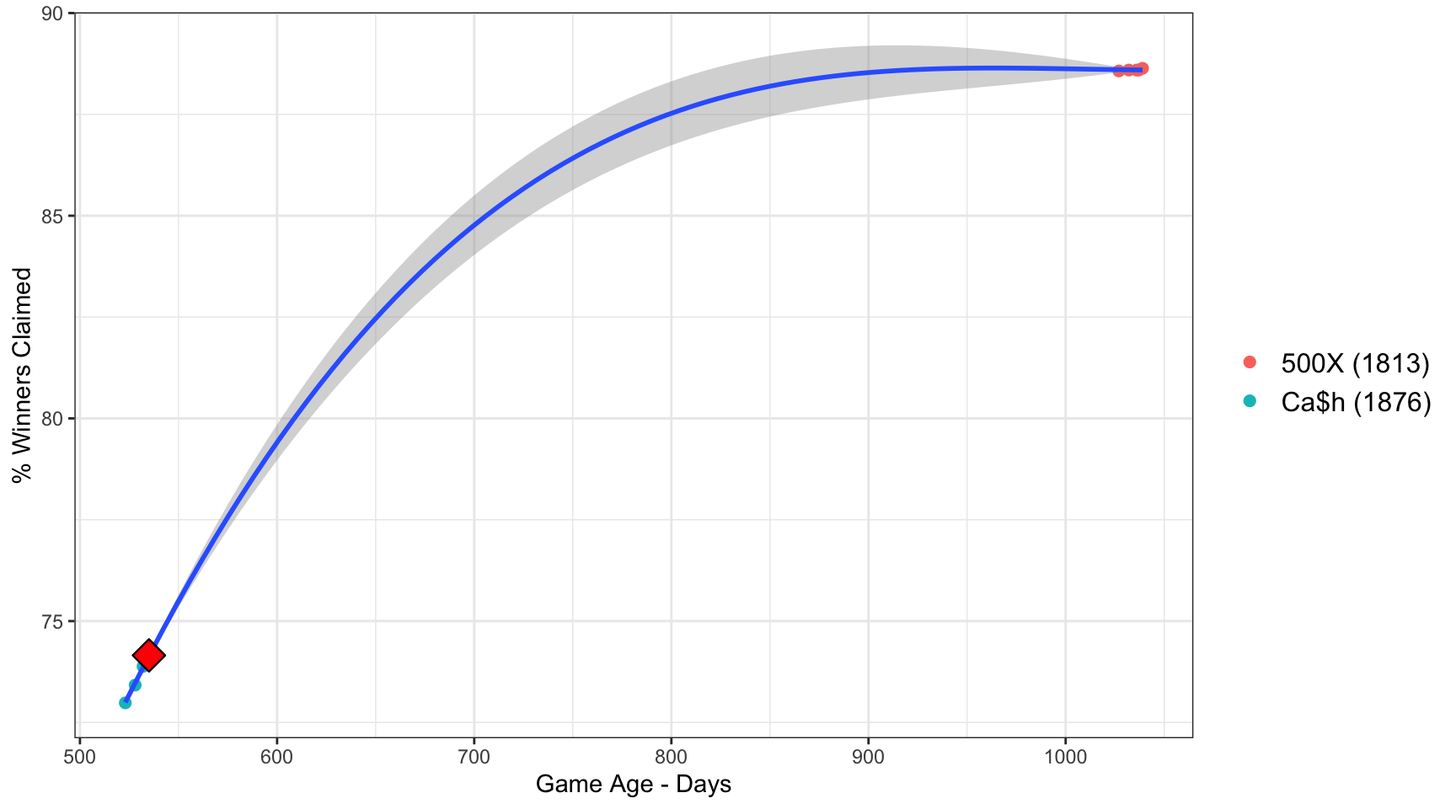
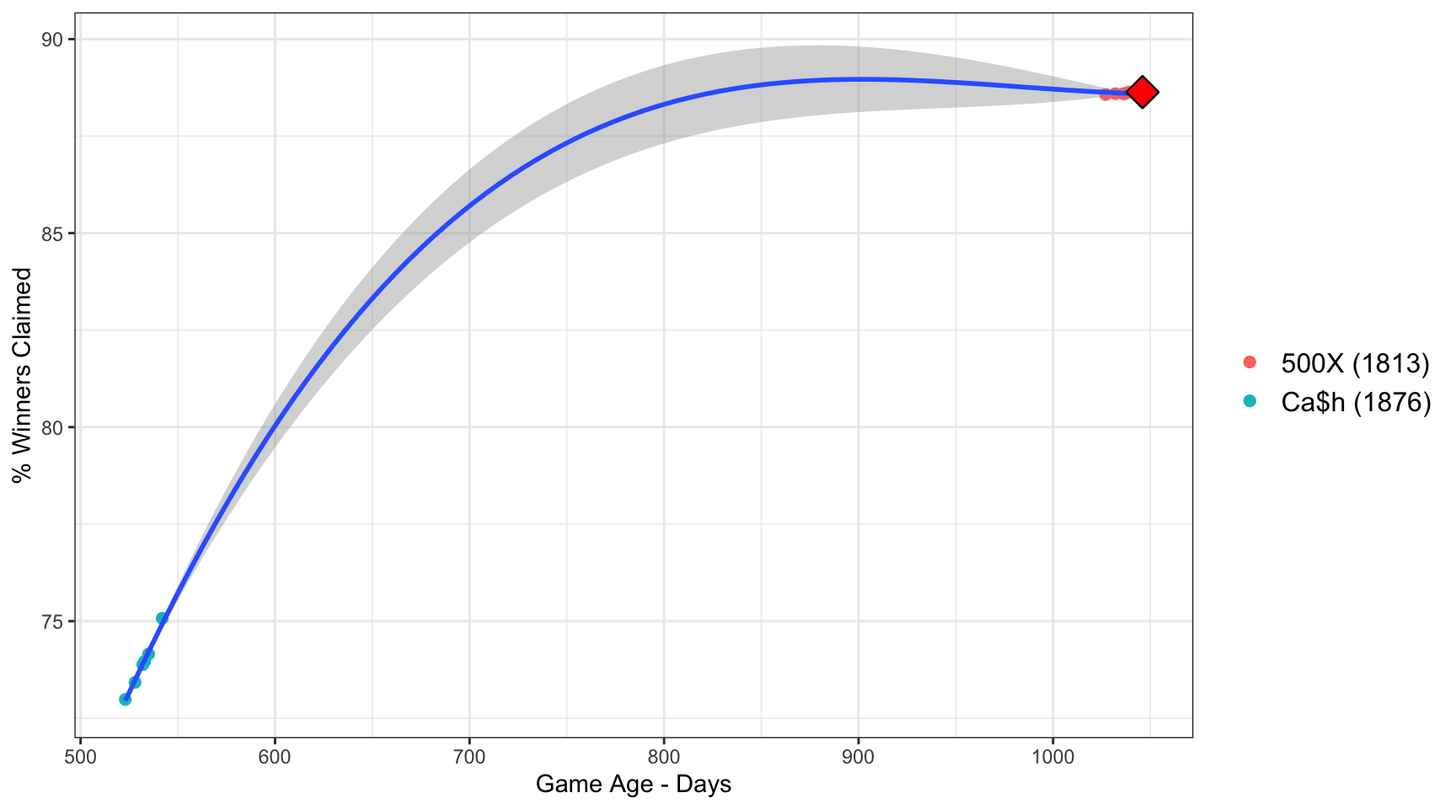
scrape data

diff --git a/docs/All_Games.html b/docs/All_Games.html
@@ -300,32 +300,32 @@ tickets &gt;$500 claimed and remaining</p>
 <div id="overall-odds" class="section level3"
 style="text-align: center">
 <h3 style="text-align: center">Overall Odds</h3>
-<div class="datatables html-widget html-fill-item-overflow-hidden html-fill-item" id="htmlwidget-b964766d08205e2cbe5b" style="width:100%;height:auto;"></div>
-<script type="application/json" data-for="htmlwidget-b964766d08205e2cbe5b">{"x":{"filter":"none","vertical":false,"data":[["1","2","3","4","5","6","7","8","9","10","11","12","13","14","15","16","17","18","19","20","21","22","23","24","25","26","27","28","29","30","31","32","33","34","35","36","37","38","39"],["$50","$50","$20","$20","$20","$20","$10","$10","$10","$10","$10","$10","$3","$5","$3","$3","$3","$5","$5","$5","$3","$3","$3","$2","$2","$5","$3","$3","$3","$5","$5","$3","$1","$1","$3","$2","$20","$5","$20"],["Ca$h (1876)","500X (1813)","Crazy Cash Crossword (1918)","Big Ol' Bens (1943)","$500,000 Payday (1848)","Money Multiplier (1932)","Mystery Box Multi Xword (1925)","$200,000 Platinum (1945)","Dig Dug (1884)","Golden Riches (1841)","Jumbo Bucks (1923)","Lucky Lines Extravaganza (1921)","Crossword Craving (1944)","Coffee House Crossword! (1940)","VIP Crossword (1924)","Lucky Duck Crossword (1899)","Pengwin Crossword (1931)","Cash In a Flash Multiplier (1939)","Lucky Match (1915)","Bingo Doubler (1933)","Treasure Hunt (1935)","Sunny Money (1907)","Lucky Hunt (1889)","Love to Win! (1938)","Winter Blast (1930)","Monopoly Doubler (1934)","Cash Card (1913)","10X Crossword (1911)","Diamond Slingo (1897)","$100,000 Makeover Money (1942)","Living Lucky with Luke Combs (1922)","Scratch Yer Booty Bingo (1909)","Quick 7s (1937)","Cool Cat (1912)","Twisted Bingo (1885)","Sascratch (1919)","Bankroll (1914)","Ruby Red 7s (1920)","$25 Million Big Blowout (1941)"],[2.89,2.89,2.93,3,3,3.01,3.13,3.15,3.18,3.18,3.24,3.3,3.5,3.52,3.52,3.52,3.53,3.6,3.6,3.63,3.64,3.66,3.66,3.69,3.69,3.72,3.72,3.72,3.73,3.76,3.76,3.76,3.78,3.79,3.83,3.87,3.96,4.31,9.48]],"container":"<table class=\"display\">\n  <thead>\n    <tr>\n      <th> <\/th>\n      <th>game_amount<\/th>\n      <th>Game<\/th>\n      <th>overall_odds<\/th>\n    <\/tr>\n  <\/thead>\n<\/table>","options":{"columnDefs":[{"className":"dt-right","targets":3},{"orderable":false,"targets":0}],"order":[],"autoWidth":false,"orderClasses":false}},"evals":[],"jsHooks":[]}</script>
+<div class="datatables html-widget html-fill-item-overflow-hidden html-fill-item" id="htmlwidget-e844e234a0fa5b250c16" style="width:100%;height:auto;"></div>
+<script type="application/json" data-for="htmlwidget-e844e234a0fa5b250c16">{"x":{"filter":"none","vertical":false,"data":[["1","2","3","4","5","6","7","8","9","10","11","12","13","14","15","16","17","18","19","20","21","22","23","24","25","26","27","28","29","30","31","32","33","34","35","36","37","38","39"],["$50","$50","$20","$20","$20","$20","$10","$10","$10","$10","$10","$10","$3","$5","$3","$3","$3","$5","$5","$5","$3","$3","$3","$2","$2","$5","$3","$3","$3","$5","$5","$3","$1","$1","$3","$2","$20","$5","$20"],["Ca$h (1876)","500X (1813)","Crazy Cash Crossword (1918)","Big Ol' Bens (1943)","$500,000 Payday (1848)","Money Multiplier (1932)","Mystery Box Multi Xword (1925)","$200,000 Platinum (1945)","Dig Dug (1884)","Golden Riches (1841)","Jumbo Bucks (1923)","Lucky Lines Extravaganza (1921)","Crossword Craving (1944)","Coffee House Crossword! (1940)","VIP Crossword (1924)","Lucky Duck Crossword (1899)","Pengwin Crossword (1931)","Cash In a Flash Multiplier (1939)","Lucky Match (1915)","Bingo Doubler (1933)","Treasure Hunt (1935)","Sunny Money (1907)","Lucky Hunt (1889)","Love to Win! (1938)","Winter Blast (1930)","Monopoly Doubler (1934)","Cash Card (1913)","10X Crossword (1911)","Diamond Slingo (1897)","$100,000 Makeover Money (1942)","Living Lucky with Luke Combs (1922)","Scratch Yer Booty Bingo (1909)","Quick 7s (1937)","Cool Cat (1912)","Twisted Bingo (1885)","Sascratch (1919)","Bankroll (1914)","Ruby Red 7s (1920)","$25 Million Big Blowout (1941)"],[2.89,2.89,2.93,3,3,3.01,3.13,3.15,3.18,3.18,3.24,3.3,3.5,3.52,3.52,3.52,3.53,3.6,3.6,3.63,3.64,3.66,3.66,3.69,3.69,3.72,3.72,3.72,3.73,3.76,3.76,3.76,3.78,3.79,3.83,3.87,3.96,4.31,9.48]],"container":"<table class=\"display\">\n  <thead>\n    <tr>\n      <th> <\/th>\n      <th>game_amount<\/th>\n      <th>Game<\/th>\n      <th>overall_odds<\/th>\n    <\/tr>\n  <\/thead>\n<\/table>","options":{"columnDefs":[{"className":"dt-right","targets":3},{"orderable":false,"targets":0}],"order":[],"autoWidth":false,"orderClasses":false}},"evals":[],"jsHooks":[]}</script>
 </div>
 <div id="odds-of-500-or-greater" class="section level3"
 style="text-align: center">
 <h3 style="text-align: center">Odds of $500 or Greater</h3>
-<div class="datatables html-widget html-fill-item-overflow-hidden html-fill-item" id="htmlwidget-02fba6210d0edbe6d771" style="width:100%;height:auto;"></div>
-<script type="application/json" data-for="htmlwidget-02fba6210d0edbe6d771">{"x":{"filter":"none","vertical":false,"data":[["1","2","3","4","5","6","7","8","9","10","11","12","13","14","15","16","17","18","19","20","21","22","23","24","25","26","27","28","29","30","31","32","33","34","35","36","37","38","39"],["$50","$50","$20","$20","$20","$10","$10","$20","$20","$5","$10","$5","$5","$10","$3","$20","$10","$3","$3","$3","$3","$5","$5","$5","$10","$5","$3","$3","$3","$5","$3","$3","$2","$3","$2","$3","$2","$1","$1"],["Ca$h (1876)","500X (1813)","$25 Million Big Blowout (1941)","Bankroll (1914)","Money Multiplier (1932)","Dig Dug (1884)","Mystery Box Multi Xword (1925)","$500,000 Payday (1848)","Big Ol' Bens (1943)","Bingo Doubler (1933)","Jumbo Bucks (1923)","Coffee House Crossword! (1940)","Monopoly Doubler (1934)","Lucky Lines Extravaganza (1921)","10X Crossword (1911)","Crazy Cash Crossword (1918)","Golden Riches (1841)","Cash Card (1913)","Lucky Hunt (1889)","Twisted Bingo (1885)","Scratch Yer Booty Bingo (1909)","Cash In a Flash Multiplier (1939)","Ruby Red 7s (1920)","$100,000 Makeover Money (1942)","$200,000 Platinum (1945)","Living Lucky with Luke Combs (1922)","Treasure Hunt (1935)","Sunny Money (1907)","Pengwin Crossword (1931)","Lucky Match (1915)","Lucky Duck Crossword (1899)","VIP Crossword (1924)","Love to Win! (1938)","Crossword Craving (1944)","Winter Blast (1930)","Diamond Slingo (1897)","Sascratch (1919)","Cool Cat (1912)","Quick 7s (1937)"],[256,265,372,1457,1757,2385,3327,3363,3392,3431,3800,5032,5065,5556,5729,6189,6507,7302,7327,8603,8941,8976,9006,9524,10022,10259,10747,11363,11622,11658,13004,15650,21928,23721,34074,53153,88046,651767,651867]],"container":"<table class=\"display\">\n  <thead>\n    <tr>\n      <th> <\/th>\n      <th>game_amount<\/th>\n      <th>Game<\/th>\n      <th>odds_500<\/th>\n    <\/tr>\n  <\/thead>\n<\/table>","options":{"columnDefs":[{"className":"dt-right","targets":3},{"orderable":false,"targets":0}],"order":[],"autoWidth":false,"orderClasses":false}},"evals":[],"jsHooks":[]}</script>
+<div class="datatables html-widget html-fill-item-overflow-hidden html-fill-item" id="htmlwidget-b5f17524b96dbeb86bf1" style="width:100%;height:auto;"></div>
+<script type="application/json" data-for="htmlwidget-b5f17524b96dbeb86bf1">{"x":{"filter":"none","vertical":false,"data":[["1","2","3","4","5","6","7","8","9","10","11","12","13","14","15","16","17","18","19","20","21","22","23","24","25","26","27","28","29","30","31","32","33","34","35","36","37","38","39"],["$50","$50","$20","$20","$20","$10","$10","$20","$20","$5","$10","$5","$5","$10","$3","$20","$10","$3","$3","$3","$3","$5","$5","$5","$10","$5","$3","$3","$3","$5","$3","$3","$2","$3","$2","$3","$2","$1","$1"],["Ca$h (1876)","500X (1813)","$25 Million Big Blowout (1941)","Bankroll (1914)","Money Multiplier (1932)","Dig Dug (1884)","Mystery Box Multi Xword (1925)","$500,000 Payday (1848)","Big Ol' Bens (1943)","Bingo Doubler (1933)","Jumbo Bucks (1923)","Coffee House Crossword! (1940)","Monopoly Doubler (1934)","Lucky Lines Extravaganza (1921)","10X Crossword (1911)","Crazy Cash Crossword (1918)","Golden Riches (1841)","Cash Card (1913)","Lucky Hunt (1889)","Twisted Bingo (1885)","Scratch Yer Booty Bingo (1909)","Cash In a Flash Multiplier (1939)","Ruby Red 7s (1920)","$100,000 Makeover Money (1942)","$200,000 Platinum (1945)","Living Lucky with Luke Combs (1922)","Treasure Hunt (1935)","Sunny Money (1907)","Pengwin Crossword (1931)","Lucky Match (1915)","Lucky Duck Crossword (1899)","VIP Crossword (1924)","Love to Win! (1938)","Crossword Craving (1944)","Winter Blast (1930)","Diamond Slingo (1897)","Sascratch (1919)","Cool Cat (1912)","Quick 7s (1937)"],[256,265,372,1457,1757,2385,3327,3363,3392,3431,3800,5032,5065,5556,5729,6189,6507,7302,7327,8603,8941,8976,9006,9524,10022,10259,10747,11363,11622,11658,13004,15650,21928,23721,34074,53153,88046,651767,651867]],"container":"<table class=\"display\">\n  <thead>\n    <tr>\n      <th> <\/th>\n      <th>game_amount<\/th>\n      <th>Game<\/th>\n      <th>odds_500<\/th>\n    <\/tr>\n  <\/thead>\n<\/table>","options":{"columnDefs":[{"className":"dt-right","targets":3},{"orderable":false,"targets":0}],"order":[],"autoWidth":false,"orderClasses":false}},"evals":[],"jsHooks":[]}</script>
 </div>
 <div id="game-age" class="section level3" style="text-align: center">
 <h3 style="text-align: center">Game Age</h3>
-<div class="datatables html-widget html-fill-item-overflow-hidden html-fill-item" id="htmlwidget-b50f470dde99582c449a" style="width:100%;height:auto;"></div>
-<script type="application/json" data-for="htmlwidget-b50f470dde99582c449a">{"x":{"filter":"none","vertical":false,"data":[["1","2","3","4","5","6","7","8","9","10","11","12","13","14","15","16","17","18","19","20","21","22","23","24","25","26","27","28","29","30","31","32","33","34","35"],["$20","$5","$5","$2","$1","$3","$5","$5","$20","$3","$2","$10","$3","$10","$5","$10","$5","$2","$20","$5","$20","$3","$1","$3","$3","$3","$3","$3","$3","$3","$10","$50","$20","$10","$50"],["$25 Million Big Blowout (1941)","Coffee House Crossword! (1940)","Cash In a Flash Multiplier (1939)","Love to Win! (1938)","Quick 7s (1937)","Treasure Hunt (1935)","Monopoly Doubler (1934)","Bingo Doubler (1933)","Money Multiplier (1932)","Pengwin Crossword (1931)","Winter Blast (1930)","Mystery Box Multi Xword (1925)","VIP Crossword (1924)","Jumbo Bucks (1923)","Living Lucky with Luke Combs (1922)","Lucky Lines Extravaganza (1921)","Ruby Red 7s (1920)","Sascratch (1919)","Crazy Cash Crossword (1918)","Lucky Match (1915)","Bankroll (1914)","Cash Card (1913)","Cool Cat (1912)","10X Crossword (1911)","Scratch Yer Booty Bingo (1909)","Sunny Money (1907)","Lucky Duck Crossword (1899)","Diamond Slingo (1897)","Lucky Hunt (1889)","Twisted Bingo (1885)","Dig Dug (1884)","Ca$h (1876)","$500,000 Payday (1848)","Golden Riches (1841)","500X (1813)"],[17,17,17,17,80,80,80,108,108,108,108,171,171,171,171,199,199,199,199,234,234,262,262,262,290,290,353,388,444,472,472,535,752,808,1039]],"container":"<table class=\"display\">\n  <thead>\n    <tr>\n      <th> <\/th>\n      <th>game_amount<\/th>\n      <th>Game<\/th>\n      <th>game_age<\/th>\n    <\/tr>\n  <\/thead>\n<\/table>","options":{"columnDefs":[{"className":"dt-right","targets":3},{"orderable":false,"targets":0}],"order":[],"autoWidth":false,"orderClasses":false}},"evals":[],"jsHooks":[]}</script>
+<div class="datatables html-widget html-fill-item-overflow-hidden html-fill-item" id="htmlwidget-e5482d8be3ebb93122b3" style="width:100%;height:auto;"></div>
+<script type="application/json" data-for="htmlwidget-e5482d8be3ebb93122b3">{"x":{"filter":"none","vertical":false,"data":[["1","2","3","4","5","6","7","8","9","10","11","12","13","14","15","16","17","18","19","20","21","22","23","24","25","26","27","28","29","30","31","32","33","34","35"],["$20","$5","$5","$2","$1","$3","$5","$5","$20","$3","$2","$10","$3","$10","$5","$10","$5","$2","$20","$5","$20","$3","$1","$3","$3","$3","$3","$3","$3","$3","$10","$50","$20","$10","$50"],["$25 Million Big Blowout (1941)","Coffee House Crossword! (1940)","Cash In a Flash Multiplier (1939)","Love to Win! (1938)","Quick 7s (1937)","Treasure Hunt (1935)","Monopoly Doubler (1934)","Bingo Doubler (1933)","Money Multiplier (1932)","Pengwin Crossword (1931)","Winter Blast (1930)","Mystery Box Multi Xword (1925)","VIP Crossword (1924)","Jumbo Bucks (1923)","Living Lucky with Luke Combs (1922)","Lucky Lines Extravaganza (1921)","Ruby Red 7s (1920)","Sascratch (1919)","Crazy Cash Crossword (1918)","Lucky Match (1915)","Bankroll (1914)","Cash Card (1913)","Cool Cat (1912)","10X Crossword (1911)","Scratch Yer Booty Bingo (1909)","Sunny Money (1907)","Lucky Duck Crossword (1899)","Diamond Slingo (1897)","Lucky Hunt (1889)","Twisted Bingo (1885)","Dig Dug (1884)","Ca$h (1876)","$500,000 Payday (1848)","Golden Riches (1841)","500X (1813)"],[24,24,24,24,87,87,87,115,115,115,115,178,178,178,178,206,206,206,206,241,241,269,269,269,297,297,360,395,451,479,479,542,759,815,1046]],"container":"<table class=\"display\">\n  <thead>\n    <tr>\n      <th> <\/th>\n      <th>game_amount<\/th>\n      <th>Game<\/th>\n      <th>game_age<\/th>\n    <\/tr>\n  <\/thead>\n<\/table>","options":{"columnDefs":[{"className":"dt-right","targets":3},{"orderable":false,"targets":0}],"order":[],"autoWidth":false,"orderClasses":false}},"evals":[],"jsHooks":[]}</script>
 </div>
 <div id="number-of-tickets-in-game" class="section level3"
 style="text-align: center">
 <h3 style="text-align: center">Number of Tickets in Game</h3>
-<div class="datatables html-widget html-fill-item-overflow-hidden html-fill-item" id="htmlwidget-0995f3ef0e0af7648f9e" style="width:100%;height:auto;"></div>
-<script type="application/json" data-for="htmlwidget-0995f3ef0e0af7648f9e">{"x":{"filter":"none","vertical":false,"data":[["1","2","3","4","5","6","7","8","9","10","11","12","13","14","15","16","17","18","19","20","21","22","23","24","25","26","27","28","29","30","31","32","33","34","35","36","37","38","39"],["$50","$50","$20","$20","$20","$10","$20","$10","$20","$10","$10","$3","$10","$3","$2","$3","$20","$3","$5","$3","$3","$2","$2","$5","$5","$5","$3","$5","$3","$3","$3","$3","$3","$5","$10","$1","$1","$5","$5"],["500X (1813)","Ca$h (1876)","Big Ol' Bens (1943)","Bankroll (1914)","Crazy Cash Crossword (1918)","$200,000 Platinum (1945)","Money Multiplier (1932)","Jumbo Bucks (1923)","$25 Million Big Blowout (1941)","Mystery Box Multi Xword (1925)","Lucky Lines Extravaganza (1921)","Sunny Money (1907)","Dig Dug (1884)","Lucky Hunt (1889)","Winter Blast (1930)","Scratch Yer Booty Bingo (1909)","$500,000 Payday (1848)","Twisted Bingo (1885)","Bingo Doubler (1933)","Treasure Hunt (1935)","Cash Card (1913)","Sascratch (1919)","Love to Win! (1938)","Cash In a Flash Multiplier (1939)","Lucky Match (1915)","Coffee House Crossword! (1940)","Pengwin Crossword (1931)","$100,000 Makeover Money (1942)","Crossword Craving (1944)","10X Crossword (1911)","VIP Crossword (1924)","Lucky Duck Crossword (1899)","Diamond Slingo (1897)","Ruby Red 7s (1920)","Golden Riches (1841)","Cool Cat (1912)","Quick 7s (1937)","Living Lucky with Luke Combs (1922)","Monopoly Doubler (1934)"],[1216260,1221870,1465150,1465575,1466725,1954250,1955200,1956800,1958400,2073000,2200250,2318100,2439350,2901500,2930400,2932600,2932650,2933500,2933600,2934000,2935300,2993550,3048000,3051700,3054300,3054600,3056500,3057300,3060000,3179800,3302100,3303100,3614400,3665600,3904250,3910600,3911200,4154900,6108700]],"container":"<table class=\"display\">\n  <thead>\n    <tr>\n      <th> <\/th>\n      <th>game_amount<\/th>\n      <th>Game<\/th>\n      <th>no_tickets<\/th>\n    <\/tr>\n  <\/thead>\n<\/table>","options":{"columnDefs":[{"className":"dt-right","targets":3},{"orderable":false,"targets":0}],"order":[],"autoWidth":false,"orderClasses":false}},"evals":[],"jsHooks":[]}</script>
+<div class="datatables html-widget html-fill-item-overflow-hidden html-fill-item" id="htmlwidget-ae97f694fca9dd4a515c" style="width:100%;height:auto;"></div>
+<script type="application/json" data-for="htmlwidget-ae97f694fca9dd4a515c">{"x":{"filter":"none","vertical":false,"data":[["1","2","3","4","5","6","7","8","9","10","11","12","13","14","15","16","17","18","19","20","21","22","23","24","25","26","27","28","29","30","31","32","33","34","35","36","37","38","39"],["$50","$50","$20","$20","$20","$10","$20","$10","$20","$10","$10","$3","$10","$3","$2","$3","$20","$3","$5","$3","$3","$2","$2","$5","$5","$5","$3","$5","$3","$3","$3","$3","$3","$5","$10","$1","$1","$5","$5"],["500X (1813)","Ca$h (1876)","Big Ol' Bens (1943)","Bankroll (1914)","Crazy Cash Crossword (1918)","$200,000 Platinum (1945)","Money Multiplier (1932)","Jumbo Bucks (1923)","$25 Million Big Blowout (1941)","Mystery Box Multi Xword (1925)","Lucky Lines Extravaganza (1921)","Sunny Money (1907)","Dig Dug (1884)","Lucky Hunt (1889)","Winter Blast (1930)","Scratch Yer Booty Bingo (1909)","$500,000 Payday (1848)","Twisted Bingo (1885)","Bingo Doubler (1933)","Treasure Hunt (1935)","Cash Card (1913)","Sascratch (1919)","Love to Win! (1938)","Cash In a Flash Multiplier (1939)","Lucky Match (1915)","Coffee House Crossword! (1940)","Pengwin Crossword (1931)","$100,000 Makeover Money (1942)","Crossword Craving (1944)","10X Crossword (1911)","VIP Crossword (1924)","Lucky Duck Crossword (1899)","Diamond Slingo (1897)","Ruby Red 7s (1920)","Golden Riches (1841)","Cool Cat (1912)","Quick 7s (1937)","Living Lucky with Luke Combs (1922)","Monopoly Doubler (1934)"],[1216260,1221870,1465150,1465575,1466725,1954250,1955200,1956800,1958400,2073000,2200250,2318100,2439350,2901500,2930400,2932600,2932650,2933500,2933600,2934000,2935300,2993550,3048000,3051700,3054300,3054600,3056500,3057300,3060000,3179800,3302100,3303100,3614400,3665600,3904250,3910600,3911200,4154900,6108700]],"container":"<table class=\"display\">\n  <thead>\n    <tr>\n      <th> <\/th>\n      <th>game_amount<\/th>\n      <th>Game<\/th>\n      <th>no_tickets<\/th>\n    <\/tr>\n  <\/thead>\n<\/table>","options":{"columnDefs":[{"className":"dt-right","targets":3},{"orderable":false,"targets":0}],"order":[],"autoWidth":false,"orderClasses":false}},"evals":[],"jsHooks":[]}</script>
 </div>
 <div id="of-winning-tickets-500-claimed" class="section level3"
 style="text-align: center">
 <h3 style="text-align: center">% of Winning Tickets &gt;$500
 Claimed</h3>
-<div class="datatables html-widget html-fill-item-overflow-hidden html-fill-item" id="htmlwidget-d02b378fb54368caee36" style="width:100%;height:auto;"></div>
-<script type="application/json" data-for="htmlwidget-d02b378fb54368caee36">{"x":{"filter":"none","vertical":false,"data":[["1","2","3","4","5","6","7","8","9","10","11","12","13","14","15","16","17","18","19","20","21","22","23","24","25","26","27","28","29","30","31","32","33","34","35","36","37","38","39","40","41","42","43","44","45","46","47","48","49","50","51","52","53","54","55","56","57","58","59","60","61","62","63","64","65","66","67","68","69","70","71","72","73","74","75","76","77","78","79","80","81","82","83","84","85","86","87","88","89","90","91","92","93","94","95","96","97","98","99","100","101","102","103","104","105","106","107","108","109","110","111","112","113","114","115","116","117","118","119","120","121","122","123","124","125","126","127","128","129","130","131","132","133","134","135","136","137","138","139","140","141","142","143","144","145","146","147","148","149","150","151","152","153","154","155","156","157","158","159","160","161","162","163","164"],["$20","$5","$10","$20","$5","$3","$5","$10","$5","$5","$20","$10","$20","$20","$5","$20","$3","$20","$5","$5","$5","$5","$5","$5","$10","$20","$5","$5","$5","$20","$5","$2","$5","$2","$2","$20","$20","$5","$1","$3","$5","$20","$2","$5","$20","$20","$3","$3","$5","$3","$5","$5","$20","$3","$2","$3","$3","$3","$10","$5","$5","$3","$20","$5","$20","$5","$5","$5","$20","$3","$2","$20","$5","$3","$3","$3","$3","$10","$20","$10","$10","$3","$3","$3","$2","$3","$3","$5","$3","$10","$10","$5","$3","$3","$3","$3","$10","$10","$5","$3","$20","$5","$3","$50","$3","$10","$20","$20","$3","$10","$3","$10","$3","$5","$2","$50","$10","$50","$20","$5","$50","$20","$20","$50","$50","$10","$5","$2","$10","$10","$20","$3","$50","$50","$10","$3","$50","$5","$10","$3","$20","$3","$3","$20","$10","$20","$10","$1","$3","$20","$20","$50","$50","$3","$20","$50","$50","$50","$50","$20","$50","$50","$50","$3"],["Big Ol' Bens (1943)","$100,000 Makeover Money (1942)","$200,000 Platinum (1945)","Big Ol' Bens (1943)","$100,000 Makeover Money (1942)","Crossword Craving (1944)","$100,000 Makeover Money (1942)","$200,000 Platinum (1945)","$100,000 Makeover Money (1942)","$100,000 Makeover Money (1942)","Big Ol' Bens (1943)","$200,000 Platinum (1945)","Big Ol' Bens (1943)","Big Ol' Bens (1943)","Coffee House Crossword! (1940)","$25 Million Big Blowout (1941)","Crossword Craving (1944)","Big Ol' Bens (1943)","Coffee House Crossword! (1940)","Bingo Doubler (1933)","Monopoly Doubler (1934)","Coffee House Crossword! (1940)","Coffee House Crossword! (1940)","Monopoly Doubler (1934)","$200,000 Platinum (1945)","Big Ol' Bens (1943)","Cash In a Flash Multiplier (1939)","Monopoly Doubler (1934)","Monopoly Doubler (1934)","Money Multiplier (1932)","Monopoly Doubler (1934)","Love to Win! (1938)","Cash In a Flash Multiplier (1939)","Love to Win! (1938)","Love to Win! (1938)","Money Multiplier (1932)","Money Multiplier (1932)","Cash In a Flash Multiplier (1939)","Quick 7s (1937)","Treasure Hunt (1935)","Bingo Doubler (1933)","Money Multiplier (1932)","Winter Blast (1930)","Living Lucky with Luke Combs (1922)","Crazy Cash Crossword (1918)","Money Multiplier (1932)","Treasure Hunt (1935)","Cash Card (1913)","Living Lucky with Luke Combs (1922)","Cash Card (1913)","Coffee House Crossword! (1940)","Bingo Doubler (1933)","Money Multiplier (1932)","Pengwin Crossword (1931)","Sascratch (1919)","Cash Card (1913)","Sunny Money (1907)","Lucky Hunt (1889)","Dig Dug (1884)","Living Lucky with Luke Combs (1922)","Living Lucky with Luke Combs (1922)","Pengwin Crossword (1931)","Crazy Cash Crossword (1918)","Living Lucky with Luke Combs (1922)","Crazy Cash Crossword (1918)","Cash In a Flash Multiplier (1939)","Bingo Doubler (1933)","Bingo Doubler (1933)","Money Multiplier (1932)","Pengwin Crossword (1931)","Sascratch (1919)","Crazy Cash Crossword (1918)","Lucky Match (1915)","10X Crossword (1911)","Lucky Duck Crossword (1899)","Lucky Duck Crossword (1899)","Lucky Hunt (1889)","Dig Dug (1884)","$500,000 Payday (1848)","Dig Dug (1884)","Dig Dug (1884)","Lucky Hunt (1889)","Pengwin Crossword (1931)","Scratch Yer Booty Bingo (1909)","Winter Blast (1930)","Pengwin Crossword (1931)","Sunny Money (1907)","Ruby Red 7s (1920)","Scratch Yer Booty Bingo (1909)","Mystery Box Multi Xword (1925)","Jumbo Bucks (1923)","Ruby Red 7s (1920)","Scratch Yer Booty Bingo (1909)","Sunny Money (1907)","Lucky Duck Crossword (1899)","Twisted Bingo (1885)","Jumbo Bucks (1923)","Mystery Box Multi Xword (1925)","Lucky Match (1915)","Twisted Bingo (1885)","$500,000 Payday (1848)","Ruby Red 7s (1920)","Lucky Duck Crossword (1899)","Ca$h (1876)","Pengwin Crossword (1931)","Mystery Box Multi Xword (1925)","Crazy Cash Crossword (1918)","Crazy Cash Crossword (1918)","10X Crossword (1911)","Lucky Lines Extravaganza (1921)","VIP Crossword (1924)","Mystery Box Multi Xword (1925)","Twisted Bingo (1885)","Ruby Red 7s (1920)","Sascratch (1919)","Ca$h (1876)","Golden Riches (1841)","Ca$h (1876)","$500,000 Payday (1848)","Ruby Red 7s (1920)","Ca$h (1876)","$500,000 Payday (1848)","$500,000 Payday (1848)","Ca$h (1876)","Ca$h (1876)","Jumbo Bucks (1923)","Lucky Match (1915)","Winter Blast (1930)","Lucky Lines Extravaganza (1921)","Lucky Lines Extravaganza (1921)","Bankroll (1914)","Lucky Duck Crossword (1899)","Ca$h (1876)","Ca$h (1876)","Lucky Lines Extravaganza (1921)","10X Crossword (1911)","Ca$h (1876)","Lucky Match (1915)","Golden Riches (1841)","VIP Crossword (1924)","Bankroll (1914)","Sunny Money (1907)","Lucky Hunt (1889)","$500,000 Payday (1848)","Golden Riches (1841)","Bankroll (1914)","Golden Riches (1841)","Cool Cat (1912)","Diamond Slingo (1897)","Bankroll (1914)","Bankroll (1914)","500X (1813)","500X (1813)","Diamond Slingo (1897)","$500,000 Payday (1848)","500X (1813)","500X (1813)","500X (1813)","500X (1813)","Bankroll (1914)","500X (1813)","500X (1813)","500X (1813)","Diamond Slingo (1897)"],["$500,000","$100,000","$10,000","$1,000","$1,000","$1,000","$10,000","$500","$5,000","$500","$500","$1,000","$5,000","$2,500","$5,000","$500","$30,000","$25,000","$100,000","$10,000","$2,500","$1,000","$500","$1,000","$200,000","$50,000","$100,000","$10,000","$100,000","$5,000","$500","$1,000","$1,000","$500","$10,000","$1,000","$2,500","$500","$7,000","$30,000","$1,000","$500,000","$10,000","$100,000","$300,000","$500","$1,000","$1,000","$1,000","$500","$10,000","$500","$50,000","$25,000","$15,000","$25,000","$1,000","$1,500","$200,000","$500","$10,000","$1,000","$5,000","$5,000","$500","$10,000","$5,000","$100,000","$25,000","$5,000","$1,000","$1,000","$100,000","$20,000","$5,000","$25,000","$1,000","$10,000","$500,000","$500","$1,000","$500","$500","$500","$500","$1,500","$500","$17,777","$1,000","$1,000","$200,000","$77,777","$25,000","$1,500","$1,000","$25,000","$1,000","$10,000","$10,000","$500","$2,500","$500","$500","$25,000","$10,000","$200,000","$10,000","$20,000","$1,000","$500","$1,000","$500","$1,000","$777","$500","$100,000","$200,000","$2,500","$500","$1,777","$10,000","$1,000","$5,000","$1,000","$2,000","$500","$1,000","$1,000","$3,000","$200,000","$50,000","$10,000","$20,000","$500","$1,000","$500","$5,000","$500","$10,000","$30,000","$25,000","$30,000","$30,000","$25,000","$500","$1,000","$1,000","$5,000","$1,000","$500","$2,500","$2,000","$25,000","$3,000","$50,000","$1,000","$2,500","$500","$10,000","$5,000","$20,000","$100,000","$5,000","$30,000"],[0,0,1,4,4,9,1,8,1,24,35,9,3,5,3,964,1,1,1,1,8,12,125,61,1,1,1,4,2,9,240,10,5,28,3,179,16,100,2,2,4,1,3,2,1,144,91,7,17,136,4,310,3,2,2,2,4,4,2,132,5,3,4,9,96,4,2,2,3,3,3,6,2,2,4,3,4,11,3,462,41,192,123,134,36,4,104,7,43,78,3,3,3,6,6,3,8,5,5,176,39,215,148,33,2,2,4,4,4,229,140,328,41,25,16,70,7,65,444,17,105,87,29,838,35,364,11,9,12,3,15,3,15,2331,29,418,54,183,35,4,8,4,4,8,321,74,124,5,25,677,38,43,43,20,7,1012,88,2563,134,27,18,90,73,14],[3,4,26,56,54,115,12,81,9,212,275,66,17,25,14,4303,4,4,4,4,30,43,394,189,3,3,3,12,6,26,654,25,12,66,7,401,34,211,4,4,8,2,6,4,2,287,176,13,31,241,7,520,5,3,3,3,6,6,3,187,7,4,5,11,105,4,2,2,3,3,3,6,2,2,4,3,4,11,3,454,39,181,112,117,29,3,75,5,29,52,2,2,2,4,4,2,5,3,3,100,21,115,78,17,1,1,2,2,2,109,66,154,19,11,7,30,3,27,184,7,40,33,11,312,13,133,4,3,4,1,5,1,5,776,9,127,16,52,9,1,2,1,1,2,75,16,26,1,5,134,7,7,7,3,1,138,12,322,16,3,2,10,7,1],["0%","0%","3.7%","6.7%","6.9%","7.3%","7.7%","9%","10%","10.2%","11.3%","12%","15%","16.7%","17.6%","18.3%","20%","20%","20%","20%","21.1%","21.8%","24.1%","24.4%","25%","25%","25%","25%","25%","25.7%","26.8%","28.6%","29.4%","29.8%","30%","30.9%","32%","32.2%","33.3%","33.3%","33.3%","33.3%","33.3%","33.3%","33.3%","33.4%","34.1%","35%","35.4%","36.1%","36.4%","37.3%","37.5%","40%","40%","40%","40%","40%","40%","41.4%","41.7%","42.9%","44.4%","45%","47.8%","50%","50%","50%","50%","50%","50%","50%","50%","50%","50%","50%","50%","50%","50%","50.4%","51.2%","51.5%","52.3%","53.4%","55.4%","57.1%","58.1%","58.3%","59.7%","60%","60%","60%","60%","60%","60%","60%","61.5%","62.5%","62.5%","63.8%","65%","65.2%","65.5%","66%","66.7%","66.7%","66.7%","66.7%","66.7%","67.8%","68%","68%","68.3%","69.4%","69.6%","70%","70%","70.7%","70.7%","70.8%","72.4%","72.5%","72.5%","72.9%","72.9%","73.2%","73.3%","75%","75%","75%","75%","75%","75%","75%","76.3%","76.7%","77.1%","77.9%","79.5%","80%","80%","80%","80%","80%","81.1%","82.2%","82.7%","83.3%","83.3%","83.5%","84.4%","86%","86%","87%","87.5%","88%","88%","88.8%","89.3%","90%","90%","90%","91.2%","93.3%"]],"container":"<table class=\"display\">\n  <thead>\n    <tr>\n      <th> <\/th>\n      <th>game_amount<\/th>\n      <th>Game<\/th>\n      <th>Prize<\/th>\n      <th>Claimed<\/th>\n      <th>Remaining<\/th>\n      <th>% Claimed<\/th>\n    <\/tr>\n  <\/thead>\n<\/table>","options":{"columnDefs":[{"className":"dt-right","targets":[4,5]},{"orderable":false,"targets":0}],"order":[],"autoWidth":false,"orderClasses":false}},"evals":[],"jsHooks":[]}</script>
+<div class="datatables html-widget html-fill-item-overflow-hidden html-fill-item" id="htmlwidget-ec14720f1091be339953" style="width:100%;height:auto;"></div>
+<script type="application/json" data-for="htmlwidget-ec14720f1091be339953">{"x":{"filter":"none","vertical":false,"data":[["1","2","3","4","5","6","7","8","9","10","11","12","13","14","15","16","17","18","19","20","21","22","23","24","25","26","27","28","29","30","31","32","33","34","35","36","37","38","39","40","41","42","43","44","45","46","47","48","49","50","51","52","53","54","55","56","57","58","59","60","61","62","63","64","65","66","67","68","69","70","71","72","73","74","75","76","77","78","79","80","81","82","83","84","85","86","87","88","89","90","91","92","93","94","95","96","97","98","99","100","101","102","103","104","105","106","107","108","109","110","111","112","113","114","115","116","117","118","119","120","121","122","123","124","125","126","127","128","129","130","131","132","133","134","135","136","137","138","139","140","141","142","143","144","145","146","147","148","149","150","151","152","153","154","155","156","157","158","159","160","161","162","163","164"],["$20","$5","$10","$5","$3","$10","$20","$20","$5","$5","$10","$20","$5","$3","$20","$20","$5","$5","$20","$5","$5","$10","$20","$5","$5","$5","$5","$5","$5","$20","$5","$2","$5","$2","$20","$20","$3","$5","$20","$2","$5","$20","$2","$3","$5","$20","$3","$3","$5","$20","$5","$5","$2","$3","$3","$3","$10","$5","$5","$3","$20","$5","$20","$1","$5","$5","$20","$3","$5","$3","$3","$3","$3","$20","$10","$3","$10","$3","$10","$3","$3","$3","$5","$20","$2","$3","$3","$10","$5","$3","$3","$3","$3","$10","$10","$5","$10","$5","$3","$20","$3","$50","$5","$3","$10","$20","$20","$3","$3","$5","$10","$2","$10","$10","$50","$5","$50","$20","$3","$20","$20","$50","$5","$50","$50","$10","$2","$10","$10","$20","$3","$50","$50","$3","$50","$10","$10","$3","$20","$3","$3","$20","$5","$10","$20","$10","$2","$1","$3","$20","$20","$50","$50","$3","$20","$50","$50","$50","$50","$20","$50","$50","$50","$3"],["Big Ol' Bens (1943)","$100,000 Makeover Money (1942)","$200,000 Platinum (1945)","$100,000 Makeover Money (1942)","Crossword Craving (1944)","$200,000 Platinum (1945)","Big Ol' Bens (1943)","Big Ol' Bens (1943)","$100,000 Makeover Money (1942)","$100,000 Makeover Money (1942)","$200,000 Platinum (1945)","Big Ol' Bens (1943)","$100,000 Makeover Money (1942)","Crossword Craving (1944)","Big Ol' Bens (1943)","Big Ol' Bens (1943)","Coffee House Crossword! (1940)","Bingo Doubler (1933)","$25 Million Big Blowout (1941)","Monopoly Doubler (1934)","Coffee House Crossword! (1940)","$200,000 Platinum (1945)","Big Ol' Bens (1943)","Cash In a Flash Multiplier (1939)","Monopoly Doubler (1934)","Coffee House Crossword! (1940)","Monopoly Doubler (1934)","Coffee House Crossword! (1940)","Monopoly Doubler (1934)","Money Multiplier (1932)","Cash In a Flash Multiplier (1939)","Love to Win! (1938)","Monopoly Doubler (1934)","Love to Win! (1938)","Money Multiplier (1932)","Money Multiplier (1932)","Treasure Hunt (1935)","Bingo Doubler (1933)","Money Multiplier (1932)","Winter Blast (1930)","Living Lucky with Luke Combs (1922)","Crazy Cash Crossword (1918)","Love to Win! (1938)","Cash Card (1913)","Cash In a Flash Multiplier (1939)","Money Multiplier (1932)","Treasure Hunt (1935)","Cash Card (1913)","Coffee House Crossword! (1940)","Money Multiplier (1932)","Living Lucky with Luke Combs (1922)","Bingo Doubler (1933)","Sascratch (1919)","Cash Card (1913)","Sunny Money (1907)","Lucky Hunt (1889)","Dig Dug (1884)","Living Lucky with Luke Combs (1922)","Living Lucky with Luke Combs (1922)","Pengwin Crossword (1931)","Crazy Cash Crossword (1918)","Living Lucky with Luke Combs (1922)","Crazy Cash Crossword (1918)","Quick 7s (1937)","Bingo Doubler (1933)","Bingo Doubler (1933)","Money Multiplier (1932)","Pengwin Crossword (1931)","Lucky Match (1915)","10X Crossword (1911)","Lucky Duck Crossword (1899)","Lucky Duck Crossword (1899)","Lucky Hunt (1889)","$500,000 Payday (1848)","Dig Dug (1884)","Lucky Hunt (1889)","Dig Dug (1884)","Scratch Yer Booty Bingo (1909)","Dig Dug (1884)","Pengwin Crossword (1931)","Pengwin Crossword (1931)","Sunny Money (1907)","Ruby Red 7s (1920)","Crazy Cash Crossword (1918)","Winter Blast (1930)","Scratch Yer Booty Bingo (1909)","Pengwin Crossword (1931)","Jumbo Bucks (1923)","Ruby Red 7s (1920)","Scratch Yer Booty Bingo (1909)","Sunny Money (1907)","Lucky Duck Crossword (1899)","Twisted Bingo (1885)","Mystery Box Multi Xword (1925)","Jumbo Bucks (1923)","Cash In a Flash Multiplier (1939)","Mystery Box Multi Xword (1925)","Lucky Match (1915)","Twisted Bingo (1885)","$500,000 Payday (1848)","Lucky Duck Crossword (1899)","Ca$h (1876)","Ruby Red 7s (1920)","Pengwin Crossword (1931)","Mystery Box Multi Xword (1925)","Crazy Cash Crossword (1918)","Crazy Cash Crossword (1918)","10X Crossword (1911)","Twisted Bingo (1885)","Ruby Red 7s (1920)","Lucky Lines Extravaganza (1921)","Sascratch (1919)","Golden Riches (1841)","Mystery Box Multi Xword (1925)","Ca$h (1876)","Ruby Red 7s (1920)","Ca$h (1876)","$500,000 Payday (1848)","VIP Crossword (1924)","$500,000 Payday (1848)","$500,000 Payday (1848)","Ca$h (1876)","Lucky Match (1915)","Ca$h (1876)","Ca$h (1876)","Jumbo Bucks (1923)","Winter Blast (1930)","Lucky Lines Extravaganza (1921)","Lucky Lines Extravaganza (1921)","Bankroll (1914)","Lucky Duck Crossword (1899)","Ca$h (1876)","Ca$h (1876)","10X Crossword (1911)","Ca$h (1876)","Lucky Lines Extravaganza (1921)","Golden Riches (1841)","VIP Crossword (1924)","Bankroll (1914)","Sunny Money (1907)","Lucky Hunt (1889)","$500,000 Payday (1848)","Lucky Match (1915)","Golden Riches (1841)","Bankroll (1914)","Golden Riches (1841)","Sascratch (1919)","Cool Cat (1912)","Diamond Slingo (1897)","Bankroll (1914)","Bankroll (1914)","500X (1813)","500X (1813)","Diamond Slingo (1897)","$500,000 Payday (1848)","500X (1813)","500X (1813)","500X (1813)","500X (1813)","Bankroll (1914)","500X (1813)","500X (1813)","500X (1813)","Diamond Slingo (1897)"],["$500,000","$100,000","$10,000","$5,000","$1,000","$500","$1,000","$500","$1,000","$10,000","$1,000","$2,500","$500","$30,000","$5,000","$25,000","$100,000","$10,000","$500","$2,500","$5,000","$200,000","$50,000","$100,000","$100,000","$1,000","$1,000","$500","$500","$5,000","$1,000","$10,000","$10,000","$1,000","$1,000","$2,500","$30,000","$1,000","$500,000","$10,000","$100,000","$300,000","$500","$1,000","$500","$500","$1,000","$500","$10,000","$50,000","$1,000","$500","$15,000","$25,000","$1,000","$1,500","$200,000","$10,000","$500","$1,000","$5,000","$5,000","$500","$7,000","$5,000","$100,000","$25,000","$5,000","$100,000","$20,000","$5,000","$25,000","$1,000","$500,000","$500","$500","$1,000","$500","$10,000","$500","$1,500","$500","$17,777","$1,000","$500","$1,000","$25,000","$200,000","$77,777","$25,000","$1,500","$1,000","$25,000","$1,000","$1,000","$10,000","$10,000","$10,000","$500","$2,500","$500","$25,000","$500","$10,000","$200,000","$10,000","$20,000","$1,000","$1,000","$777","$500","$500","$200,000","$500","$2,500","$1,777","$100,000","$500","$1,000","$1,000","$5,000","$2,000","$1,000","$1,000","$10,000","$500","$1,000","$3,000","$200,000","$50,000","$10,000","$20,000","$500","$500","$5,000","$1,000","$10,000","$30,000","$25,000","$30,000","$30,000","$25,000","$500","$500","$1,000","$1,000","$1,000","$5,000","$1,000","$500","$2,500","$2,000","$25,000","$3,000","$50,000","$1,000","$2,500","$500","$10,000","$5,000","$20,000","$100,000","$5,000","$30,000"],[0,0,2,1,15,11,8,42,8,2,12,5,40,1,4,1,1,1,1077,8,4,1,1,1,2,14,66,143,249,10,5,3,5,11,185,16,2,4,1,3,2,1,32,7,109,152,95,136,4,3,18,322,2,2,4,4,2,5,136,3,4,9,97,3,2,2,3,3,2,2,4,3,4,3,463,192,42,134,12,130,4,104,7,7,38,43,3,3,3,3,6,6,3,80,8,5,5,5,176,39,149,33,219,2,2,4,4,4,41,25,235,16,7,340,65,17,71,446,149,87,29,35,11,847,108,372,9,12,3,15,3,15,2362,419,54,30,35,4,8,4,4,8,189,321,74,124,5,5,25,679,38,43,43,20,7,1012,88,2563,134,27,18,90,73,14],[3,4,25,9,109,78,52,268,50,11,63,25,196,4,16,4,4,4,4190,30,13,3,3,3,6,41,184,376,645,25,12,7,11,24,395,34,4,8,2,6,4,2,62,13,202,279,172,241,7,5,30,508,3,3,6,6,3,7,183,4,5,11,104,3,2,2,3,3,2,2,4,3,4,3,453,181,38,117,10,105,3,75,5,5,27,29,2,2,2,2,4,4,2,50,5,3,3,3,100,21,77,17,111,1,1,2,2,2,19,11,103,7,3,142,27,7,29,182,57,33,11,13,4,303,37,125,3,4,1,5,1,5,745,126,16,8,9,1,2,1,1,2,46,75,16,26,1,1,5,132,7,7,7,3,1,138,12,322,16,3,2,10,7,1],["0%","0%","7.4%","10%","12.1%","12.4%","13.3%","13.5%","13.8%","15.4%","16%","16.7%","16.9%","20%","20%","20%","20%","20%","20.4%","21.1%","23.5%","25%","25%","25%","25%","25.5%","26.4%","27.6%","27.9%","28.6%","29.4%","30%","31.2%","31.4%","31.9%","32%","33.3%","33.3%","33.3%","33.3%","33.3%","33.3%","34%","35%","35%","35.3%","35.6%","36.1%","36.4%","37.5%","37.5%","38.8%","40%","40%","40%","40%","40%","41.7%","42.6%","42.9%","44.4%","45%","48.3%","50%","50%","50%","50%","50%","50%","50%","50%","50%","50%","50%","50.5%","51.5%","52.5%","53.4%","54.5%","55.3%","57.1%","58.1%","58.3%","58.3%","58.5%","59.7%","60%","60%","60%","60%","60%","60%","60%","61.5%","61.5%","62.5%","62.5%","62.5%","63.8%","65%","65.9%","66%","66.4%","66.7%","66.7%","66.7%","66.7%","66.7%","68.3%","69.4%","69.5%","69.6%","70%","70.5%","70.7%","70.8%","71%","71%","72.3%","72.5%","72.5%","72.9%","73.3%","73.7%","74.5%","74.8%","75%","75%","75%","75%","75%","75%","76%","76.9%","77.1%","78.9%","79.5%","80%","80%","80%","80%","80%","80.4%","81.1%","82.2%","82.7%","83.3%","83.3%","83.3%","83.7%","84.4%","86%","86%","87%","87.5%","88%","88%","88.8%","89.3%","90%","90%","90%","91.2%","93.3%"]],"container":"<table class=\"display\">\n  <thead>\n    <tr>\n      <th> <\/th>\n      <th>game_amount<\/th>\n      <th>Game<\/th>\n      <th>Prize<\/th>\n      <th>Claimed<\/th>\n      <th>Remaining<\/th>\n      <th>% Claimed<\/th>\n    <\/tr>\n  <\/thead>\n<\/table>","options":{"columnDefs":[{"className":"dt-right","targets":[4,5]},{"orderable":false,"targets":0}],"order":[],"autoWidth":false,"orderClasses":false}},"evals":[],"jsHooks":[]}</script>
 </div>
 
 

diff --git a/docs/index.html b/docs/index.html
@@ -315,25 +315,25 @@ the best games to play and increase your chances of winning.</p>
 style="text-align: center">
 <h3 style="text-align: center"><u>Best Scratch-Off games to buy
 today:</u></h3>
-<div class="datatables html-widget html-fill-item-overflow-hidden html-fill-item" id="htmlwidget-b2aef57b45b5f354031f" style="width:100%;height:auto;"></div>
-<script type="application/json" data-for="htmlwidget-b2aef57b45b5f354031f">{"x":{"filter":"none","vertical":false,"data":[["$1","$2","$3","$5","$10","$20","$50"],["Quick 7s (1937)","Sascratch (1919)","Cash Card (1913)","Living Lucky with Luke Combs (1922)","Mystery Box Multi Xword (1925)","Crazy Cash Crossword (1918)","Ca$h (1876)"]],"container":"<table class=\"display\">\n  <thead>\n    <tr>\n      <th>$ Amount<\/th>\n      <th>Game<\/th>\n    <\/tr>\n  <\/thead>\n<\/table>","options":{"dom":"t","columnDefs":[{"className":"dt-center","targets":[0,1]}],"order":[],"autoWidth":false,"orderClasses":false}},"evals":[],"jsHooks":[]}</script>
+<div class="datatables html-widget html-fill-item-overflow-hidden html-fill-item" id="htmlwidget-7f00e2edbf69e720b856" style="width:100%;height:auto;"></div>
+<script type="application/json" data-for="htmlwidget-7f00e2edbf69e720b856">{"x":{"filter":"none","vertical":false,"data":[["$1","$2","$3","$5","$10","$20","$50"],["Cool Cat (1912)","Love to Win! (1938)","Cash Card (1913)","Living Lucky with Luke Combs (1922)","Golden Riches (1841)","Crazy Cash Crossword (1918)","500X (1813)"]],"container":"<table class=\"display\">\n  <thead>\n    <tr>\n      <th>$ Amount<\/th>\n      <th>Game<\/th>\n    <\/tr>\n  <\/thead>\n<\/table>","options":{"dom":"t","columnDefs":[{"className":"dt-center","targets":[0,1]}],"order":[],"autoWidth":false,"orderClasses":false}},"evals":[],"jsHooks":[]}</script>
 </div>
 <div id="games" class="section level3">
 <h3>$1 Games</h3>
 <hr />
 <p>The Best <strong>$1</strong> Game to play right now is
-<u><strong>Quick 7s (1937)</strong></u>. Only 33.3% of winning tickets
-have been claimed. Typically for a 80 day old game 33.7% of winners have
-been claimed.</p>
+<u><strong>Cool Cat (1912)</strong></u>. Only 83.3% of winning tickets
+have been claimed. Typically for a 269 day old game 82.7% of winners
+have been claimed.</p>
 <p><img src="index_files/figure-html/unnamed-chunk-4-1.png" width="864" style="display: block; margin: auto;" /></p>
 </div>
 <div id="games-1" class="section level3">
 <h3>$2 Games</h3>
 <hr />
 <p>The Best <strong>$2</strong> Game to play right now is
-<u><strong>Sascratch (1919)</strong></u>. Only 61.8% of winning tickets
-have been claimed. Typically for a 199 day old game 61.6% of winners
-have been claimed.</p>
+<u><strong>Love to Win! (1938)</strong></u>. Only 33.1% of winning
+tickets have been claimed. Typically for a 24 day old game 32% of
+winners have been claimed.</p>
 <p><img src="index_files/figure-html/unnamed-chunk-5-1.png" width="864" style="display: block; margin: auto;" /></p>
 </div>
 <div id="games-2" class="section level3">
@@ -341,43 +341,43 @@ have been claimed.</p>
 <hr />
 <p>The Best <strong>$3</strong> Game to play right now is
 <u><strong>Cash Card (1913)</strong></u>. Only 36.1% of winning tickets
-have been claimed. Typically for a 262 day old game 60% of winners have
-been claimed.</p>
+have been claimed. Typically for a 269 day old game 60.5% of winners
+have been claimed.</p>
 <p><img src="index_files/figure-html/unnamed-chunk-6-1.png" width="864" style="display: block; margin: auto;" /></p>
 </div>
 <div id="games-3" class="section level3">
 <h3>$5 Games</h3>
 <hr />
 <p>The Best <strong>$5</strong> Game to play right now is
-<u><strong>Living Lucky with Luke Combs (1922)</strong></u>. Only 40.7%
-of winning tickets have been claimed. Typically for a 171 day old game
-49.6% of winners have been claimed.</p>
+<u><strong>Living Lucky with Luke Combs (1922)</strong></u>. Only 42% of
+winning tickets have been claimed. Typically for a 178 day old game
+51.9% of winners have been claimed.</p>
 <p><img src="index_files/figure-html/unnamed-chunk-7-1.png" width="864" style="display: block; margin: auto;" /></p>
 </div>
 <div id="games-4" class="section level3">
 <h3>$10 Games</h3>
 <hr />
 <p>The Best <strong>$10</strong> Game to play right now is
-<u><strong>Mystery Box Multi Xword (1925)</strong></u>. Only 66.3% of
-winning tickets have been claimed. Typically for a 171 day old game
-68.4% of winners have been claimed.</p>
+<u><strong>Golden Riches (1841)</strong></u>. Only 81.2% of winning
+tickets have been claimed. Typically for a 815 day old game 82.8% of
+winners have been claimed.</p>
 <p><img src="index_files/figure-html/unnamed-chunk-8-1.png" width="864" style="display: block; margin: auto;" /></p>
 </div>
 <div id="games-5" class="section level3">
 <h3>$20 Games</h3>
 <hr />
 <p>The Best <strong>$20</strong> Game to play right now is
-<u><strong>Crazy Cash Crossword (1918)</strong></u>. Only 48.5% of
-winning tickets have been claimed. Typically for a 199 day old game
-61.7% of winners have been claimed.</p>
+<u><strong>Crazy Cash Crossword (1918)</strong></u>. Only 49.4% of
+winning tickets have been claimed. Typically for a 206 day old game
+62.9% of winners have been claimed.</p>
 <p><img src="index_files/figure-html/unnamed-chunk-9-1.png" width="864" style="display: block; margin: auto;" /></p>
 </div>
 <div id="games-6" class="section level3">
 <h3>$50 Games</h3>
 <hr />
 <p>The Best <strong>$50</strong> Game to play right now is
-<u><strong>CaSh (1876)</strong></u>. Only 74.2% of winning tickets have
-been claimed. Typically for a 535 day old game 74.1% of winners have
+<u><strong>500X (1813)</strong></u>. Only 88.6% of winning tickets have
+been claimed. Typically for a 1046 day old game 88.6% of winners have
 been claimed.</p>
 <p><img src="index_files/figure-html/unnamed-chunk-10-1.png" width="864" style="display: block; margin: auto;" /></p>
 </div>
